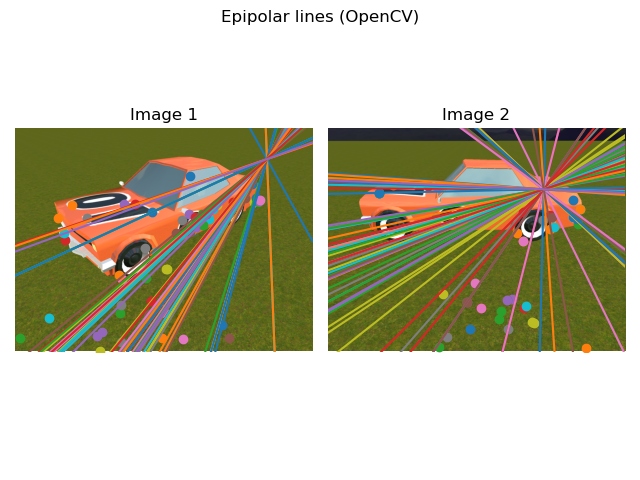
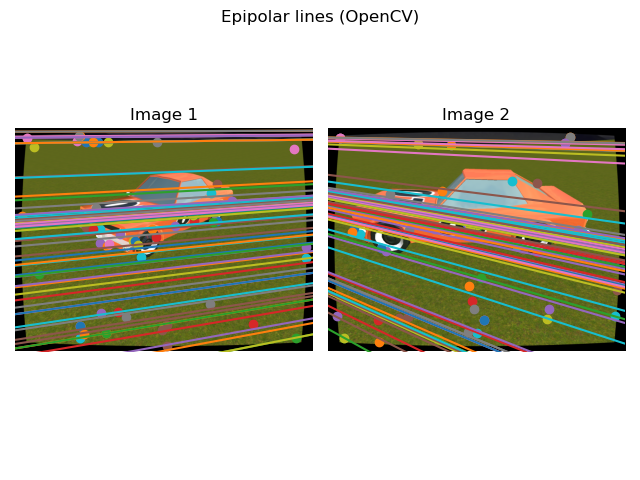
Refactoring code

Changed region(s): [[0.0, 0.25, 1.0, 0.75]]

diff --git a/reconstruction.py b/reconstruction.py
@@ -2,39 +2,58 @@ import cv2
 import numpy as np
 
 from epipolar_geometry import E2RsCs, FKs2E
-from visualization import plot_epipolar_line
+from visualization import plot_epipolar_lines
 from ransac import ransac_f
 
-def reconstruct_scene(pts0, pts1, K1, K2, image1, image2):
+def compute_epipolar_geometry(pts0, pts1, K1, K2):
     u1 = np.vstack([pts0.T, np.ones(pts0.shape[0])])
     u2 = np.vstack([pts1.T, np.ones(pts1.shape[0])])
 
     # Compute the best Fundamental matrix using ransac
-    F, selected_points = ransac_f(pts_matches=np.array([u1, u2]), LO_RANSAC=True)
-    print(f"Fundamental matrix:\n{F}")
-    print(f"Selected points: {selected_points}")
+    F, selected_points = ransac_f(pts_matches=np.array([u1, u2]), conf=0.99, LO_RANSAC=True)
 
     # Compute the Essential matrix
     E = FKs2E(F, K1=K1, K2=K2)
-    print(f"Essential matrix:\n{E}")
 
     # Compute the Rotation and Translation
     R1, R2s, C1, C2s = E2RsCs(E)
-    print(f"R1:\n{R1}")
-    print(f"R2:\n{R2s}")
-    print(f"C1:\n{C1}")
-    print(f"C2:\n{C2s}")
 
-    # Plot the epipolar lines
-    plot_epipolar_line(image1, image2, u1, u2, np.arange(u1.shape[1]), F, title='Epipolar lines (Custom)')
+    return F, E, R1, R2s, C1, C2s
+
+def triangulate_points(pts0, pts1, P1, P2):
+    """
+    Triangulate the points in 3D space using the projection matrices
+    :param pts0:
+    :param pts1:
+    :param P1:
+    :param P2:
+    :return:
+    """
+    # TODO : later implement own triangulation method
+    pts_3d = cv2.triangulatePoints(P1, P2, pts0[:2], pts1[:2])
+    pts_3d = pts_3d / pts_3d[3]
+    return pts_3d
+
+def reconstruct_scene(pts0, pts1, K1, K2, image1, image2):
+    """
+    Reconstruct the scene from the Fundamental matrix and the cameras calibration matrices
+    :param pts0: points in image 1
+    :param pts1: points in image 2
+    :param K1: camera 1 calibration matrix
+    :param K2: camera 2 calibration matrix
+    :param image1: image 1
+    :param image2: image 2
+    :return: 3D points
+    """
+
+    # Compute the epipolar geometry
+    F, E, R1, R2s, C1, C2s = compute_epipolar_geometry(pts0, pts1, K1, K2)
 
     # Compute the projection matrices
     P1 = K1 @ np.hstack([R1, C1.reshape(-1, 1)])
     P2 = K2 @ np.hstack([R2s[0], C2s[0].reshape(-1, 1)]) # Select the first rotation and translation
 
     # Triangulate the points
-    points = cv2.triangulatePoints(P1, P2, pts0.T, pts1.T)
-    points /= points[3]
-    points = points[:3].T
+    pts_3d = triangulate_points(pts0, pts1, P1, P2)
 
-    return points
+    return pts_3d

diff --git a/main.py b/main.py
@@ -10,7 +10,7 @@ import pandas as pd
 import reconstruction_opencv
 import reconstruction
 from features_detection import match_images
-from visualization import plot_matches, plot_image, plot_vertices
+from visualization import plot_matches, plot_image, plot_vertices, plot_epipolar_lines
 
 
 
@@ -53,15 +53,16 @@ if __name__ == '__main__':
     # Plot the matches
     #plot_matches(images[0], images[1], pts0, pts1)
 
-    # 1. Reconstruction using OpenCV functions
-    points_3d_cv = reconstruction_opencv.reconstruct_scene(pts0, pts1, Ks[0], Ks[1], images[0], images[1])
+    # Plot the epipolar lines
+    u1 = np.vstack([pts0.T, np.ones(pts0.shape[0])])
+    u2 = np.vstack([pts1.T, np.ones(pts1.shape[0])])
 
-    # 2. Reconstruction using custom functions
-    points_3d = reconstruction.reconstruct_scene(pts0, pts1, Ks[0], Ks[1], images[0], images[1])
+    # Compute the epipolar geometry (using OpenCV)
+    F_, E_, R_, C_ = reconstruction_opencv.compute_epipolar_geometry(pts0, pts1, Ks[0], Ks[1])
 
-    # 3. Plot the 3D points TODO: Implement this part
-    # 3.1 Plot the 3D points using OpenCV functions
-    #plot_vertices(points_3d_cv, title='3D points (OpenCV reconstruction)')
+    # Compute the epipolar geometry
+    F, E, R1, R2s, C1, C2s = reconstruction.compute_epipolar_geometry(pts0, pts1, Ks[0], Ks[1])
 
-    # 3.2 Plot the 3D points using custom functions
-    #plot_vertices(points_3d, title='3D points (Custom reconstruction)')
+    plot_epipolar_lines(images[0], images[1], u1, u2, np.arange(u1.shape[1]), F_, title='Epipolar lines (OpenCV)')
+    plot_epipolar_lines(images[0], images[1], u1, u2, np.arange(u1.shape[1]), F, title='Epipolar lines (Custom)')
+

diff --git a/reconstruction_opencv.py b/reconstruction_opencv.py
@@ -1,8 +1,23 @@
 import cv2
 import numpy as np
 
-from visualization import plot_epipolar_line
+from visualization import plot_epipolar_lines
 
+
+def compute_epipolar_geometry(pts0, pts1, K1, K2):
+
+    # Compute the best Fundamental matrix using ransac
+    F, mask = cv2.findFundamentalMat(pts0, pts1, cv2.RANSAC)
+    pts0 = pts0[mask.ravel() == 1]
+    pts1 = pts1[mask.ravel() == 1]
+
+    # Compute the Essential matrix
+    E, _ = cv2.findEssentialMat(pts0, pts1, K1, method=cv2.RANSAC)
+
+    # Compute the Rotation and Translation
+    _, R, C, _ = cv2.recoverPose(E, pts0, pts1, K1)
+
+    return F, E, R, C
 
 def reconstruct_scene(pts0, pts1, K1, K2, image1, image2):
     """
@@ -25,7 +40,6 @@ def reconstruct_scene(pts0, pts1, K1, K2, image1, image2):
     # Plot epipolar lines
     u1 = np.vstack([pts0.T, np.ones(pts0.shape[0])])
     u2 = np.vstack([pts1.T, np.ones(pts1.shape[0])])
-    plot_epipolar_line(image1, image2, u1, u2, np.arange(u1.shape[1]), F, title='Epipolar lines (OpenCV)')
 
     # Compute the projection matrices
     _, R, C, _ = cv2.recoverPose(E, pts0, pts1, K1)

diff --git a/visualization.py b/visualization.py
@@ -40,7 +40,7 @@ def plot_matches(image0, image1, pts0, pts1):
     plt.show()
     plt.close()
 
-def plot_epipolar_line(image1, image2, u1, u2, ix, F, title=None):
+def plot_epipolar_lines(image1, image2, u1, u2, ix, F, title=None):
     """
     Plot the epipolar lines and points
 
